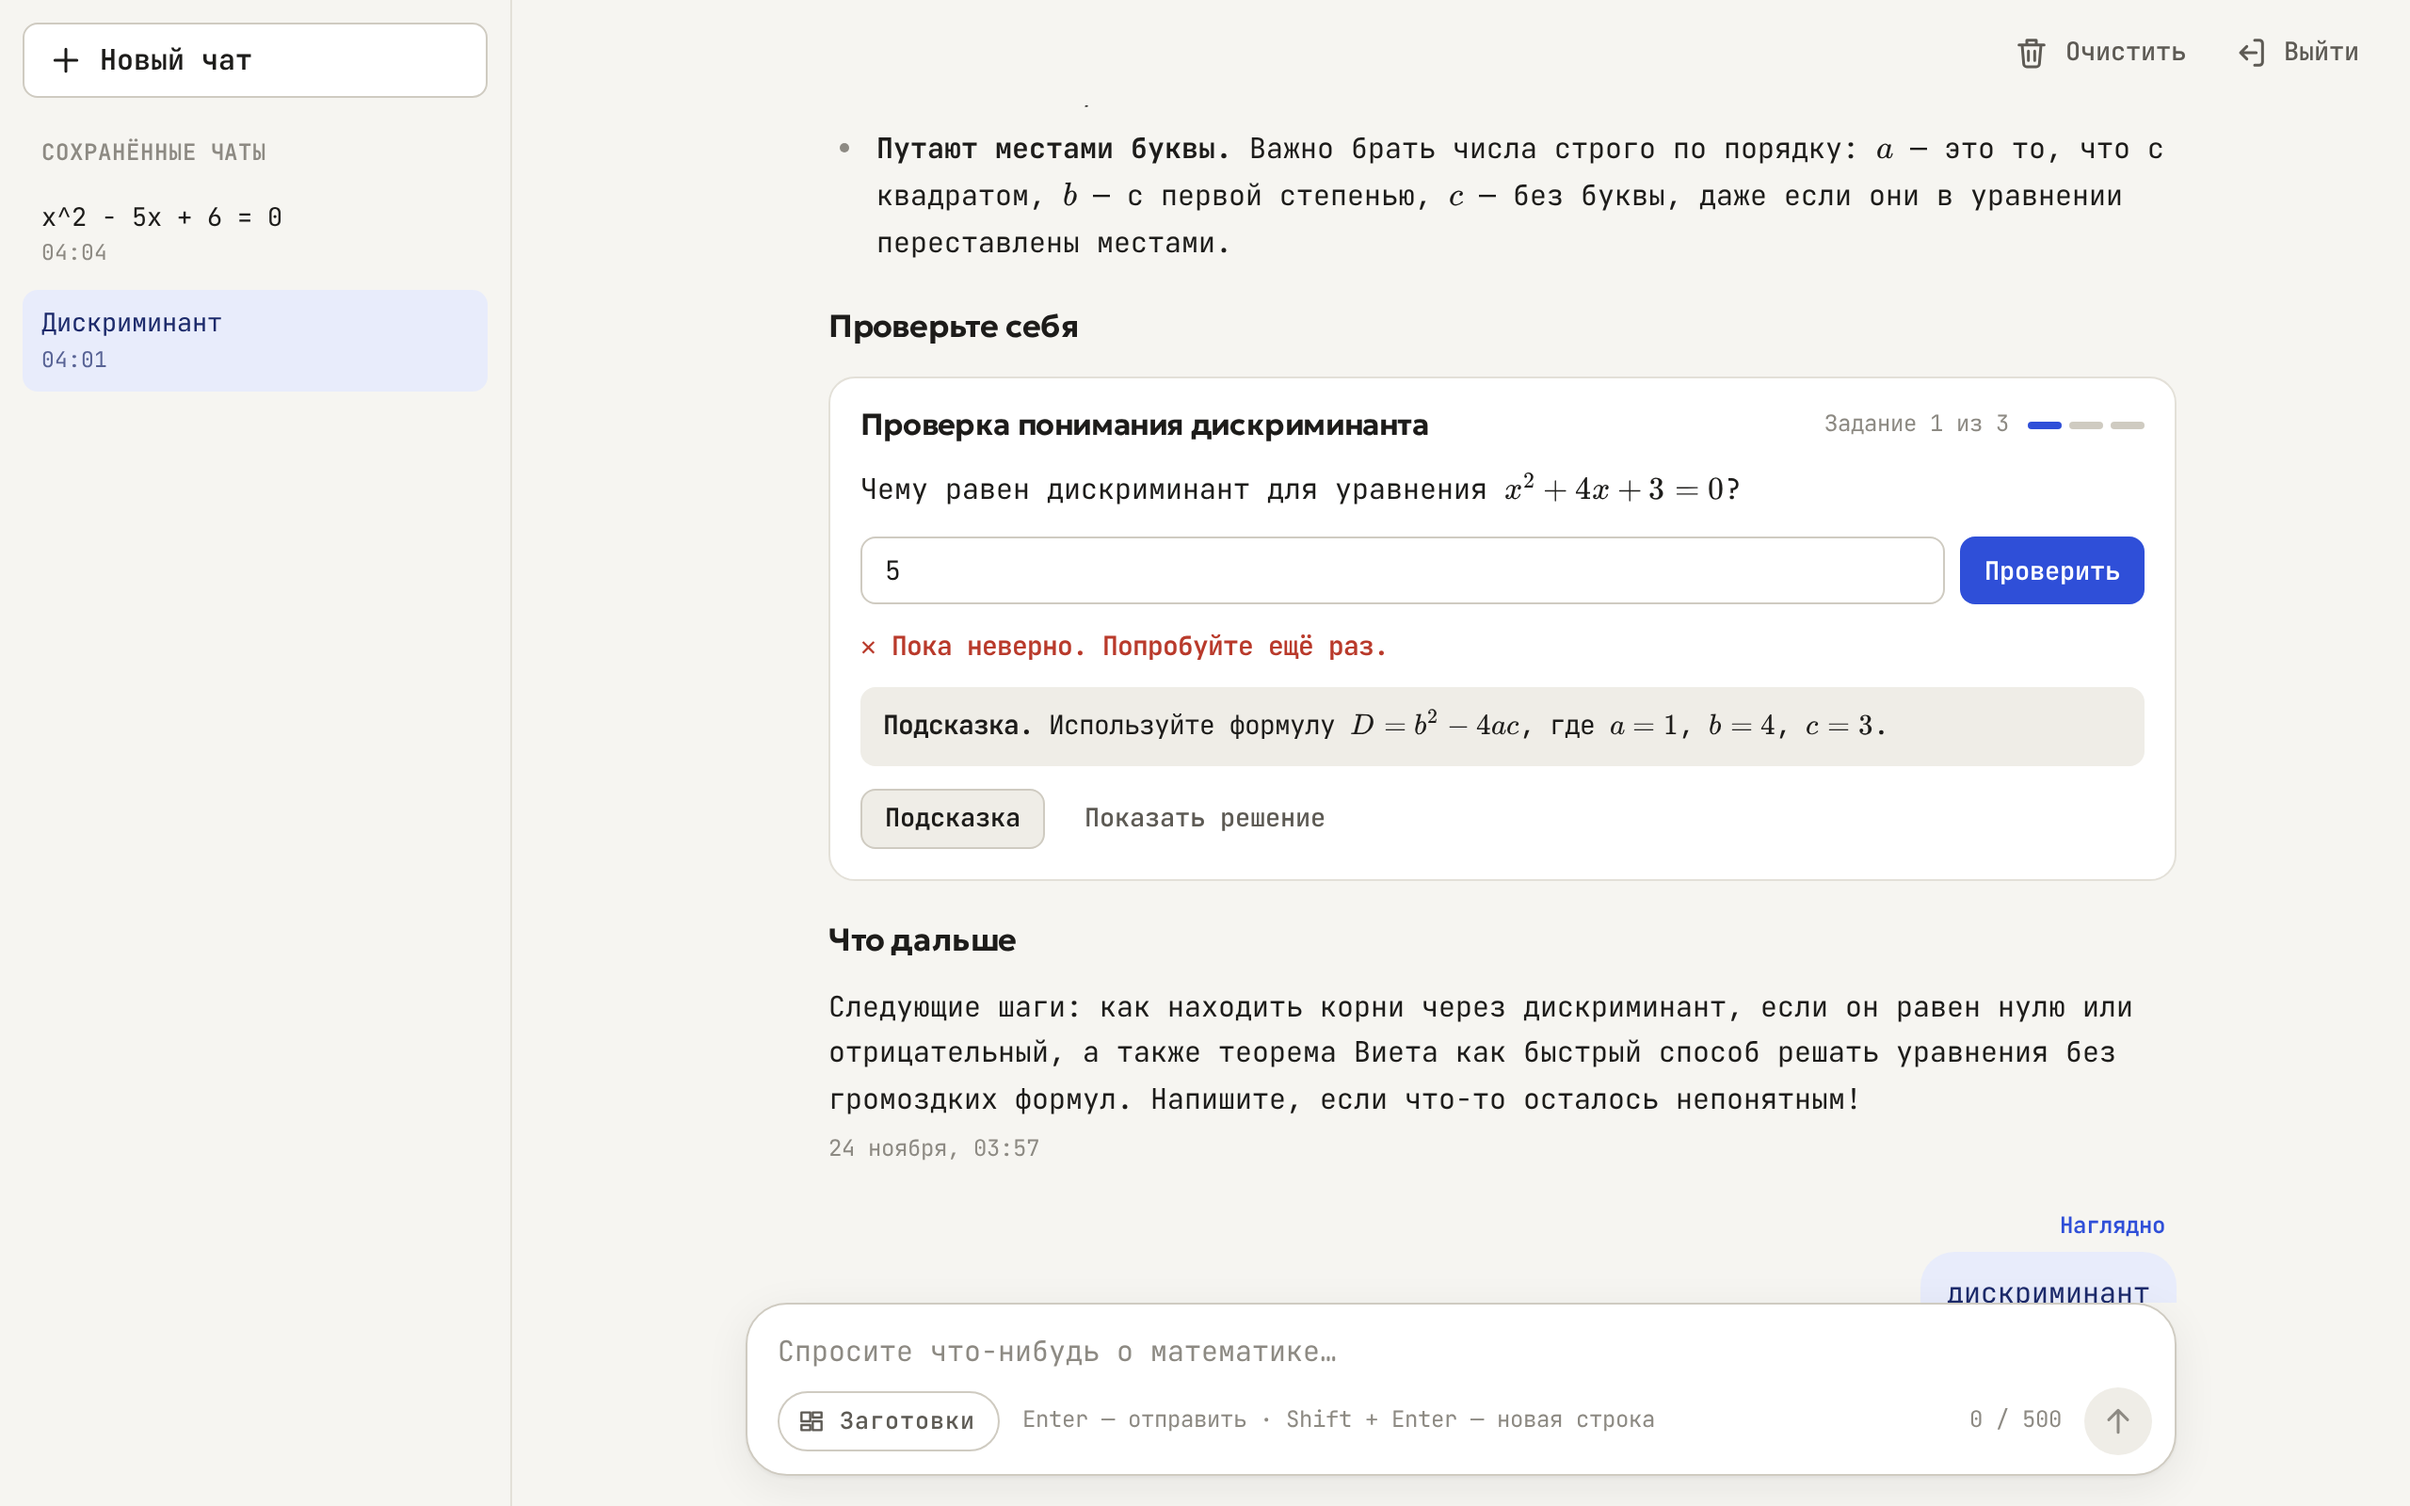
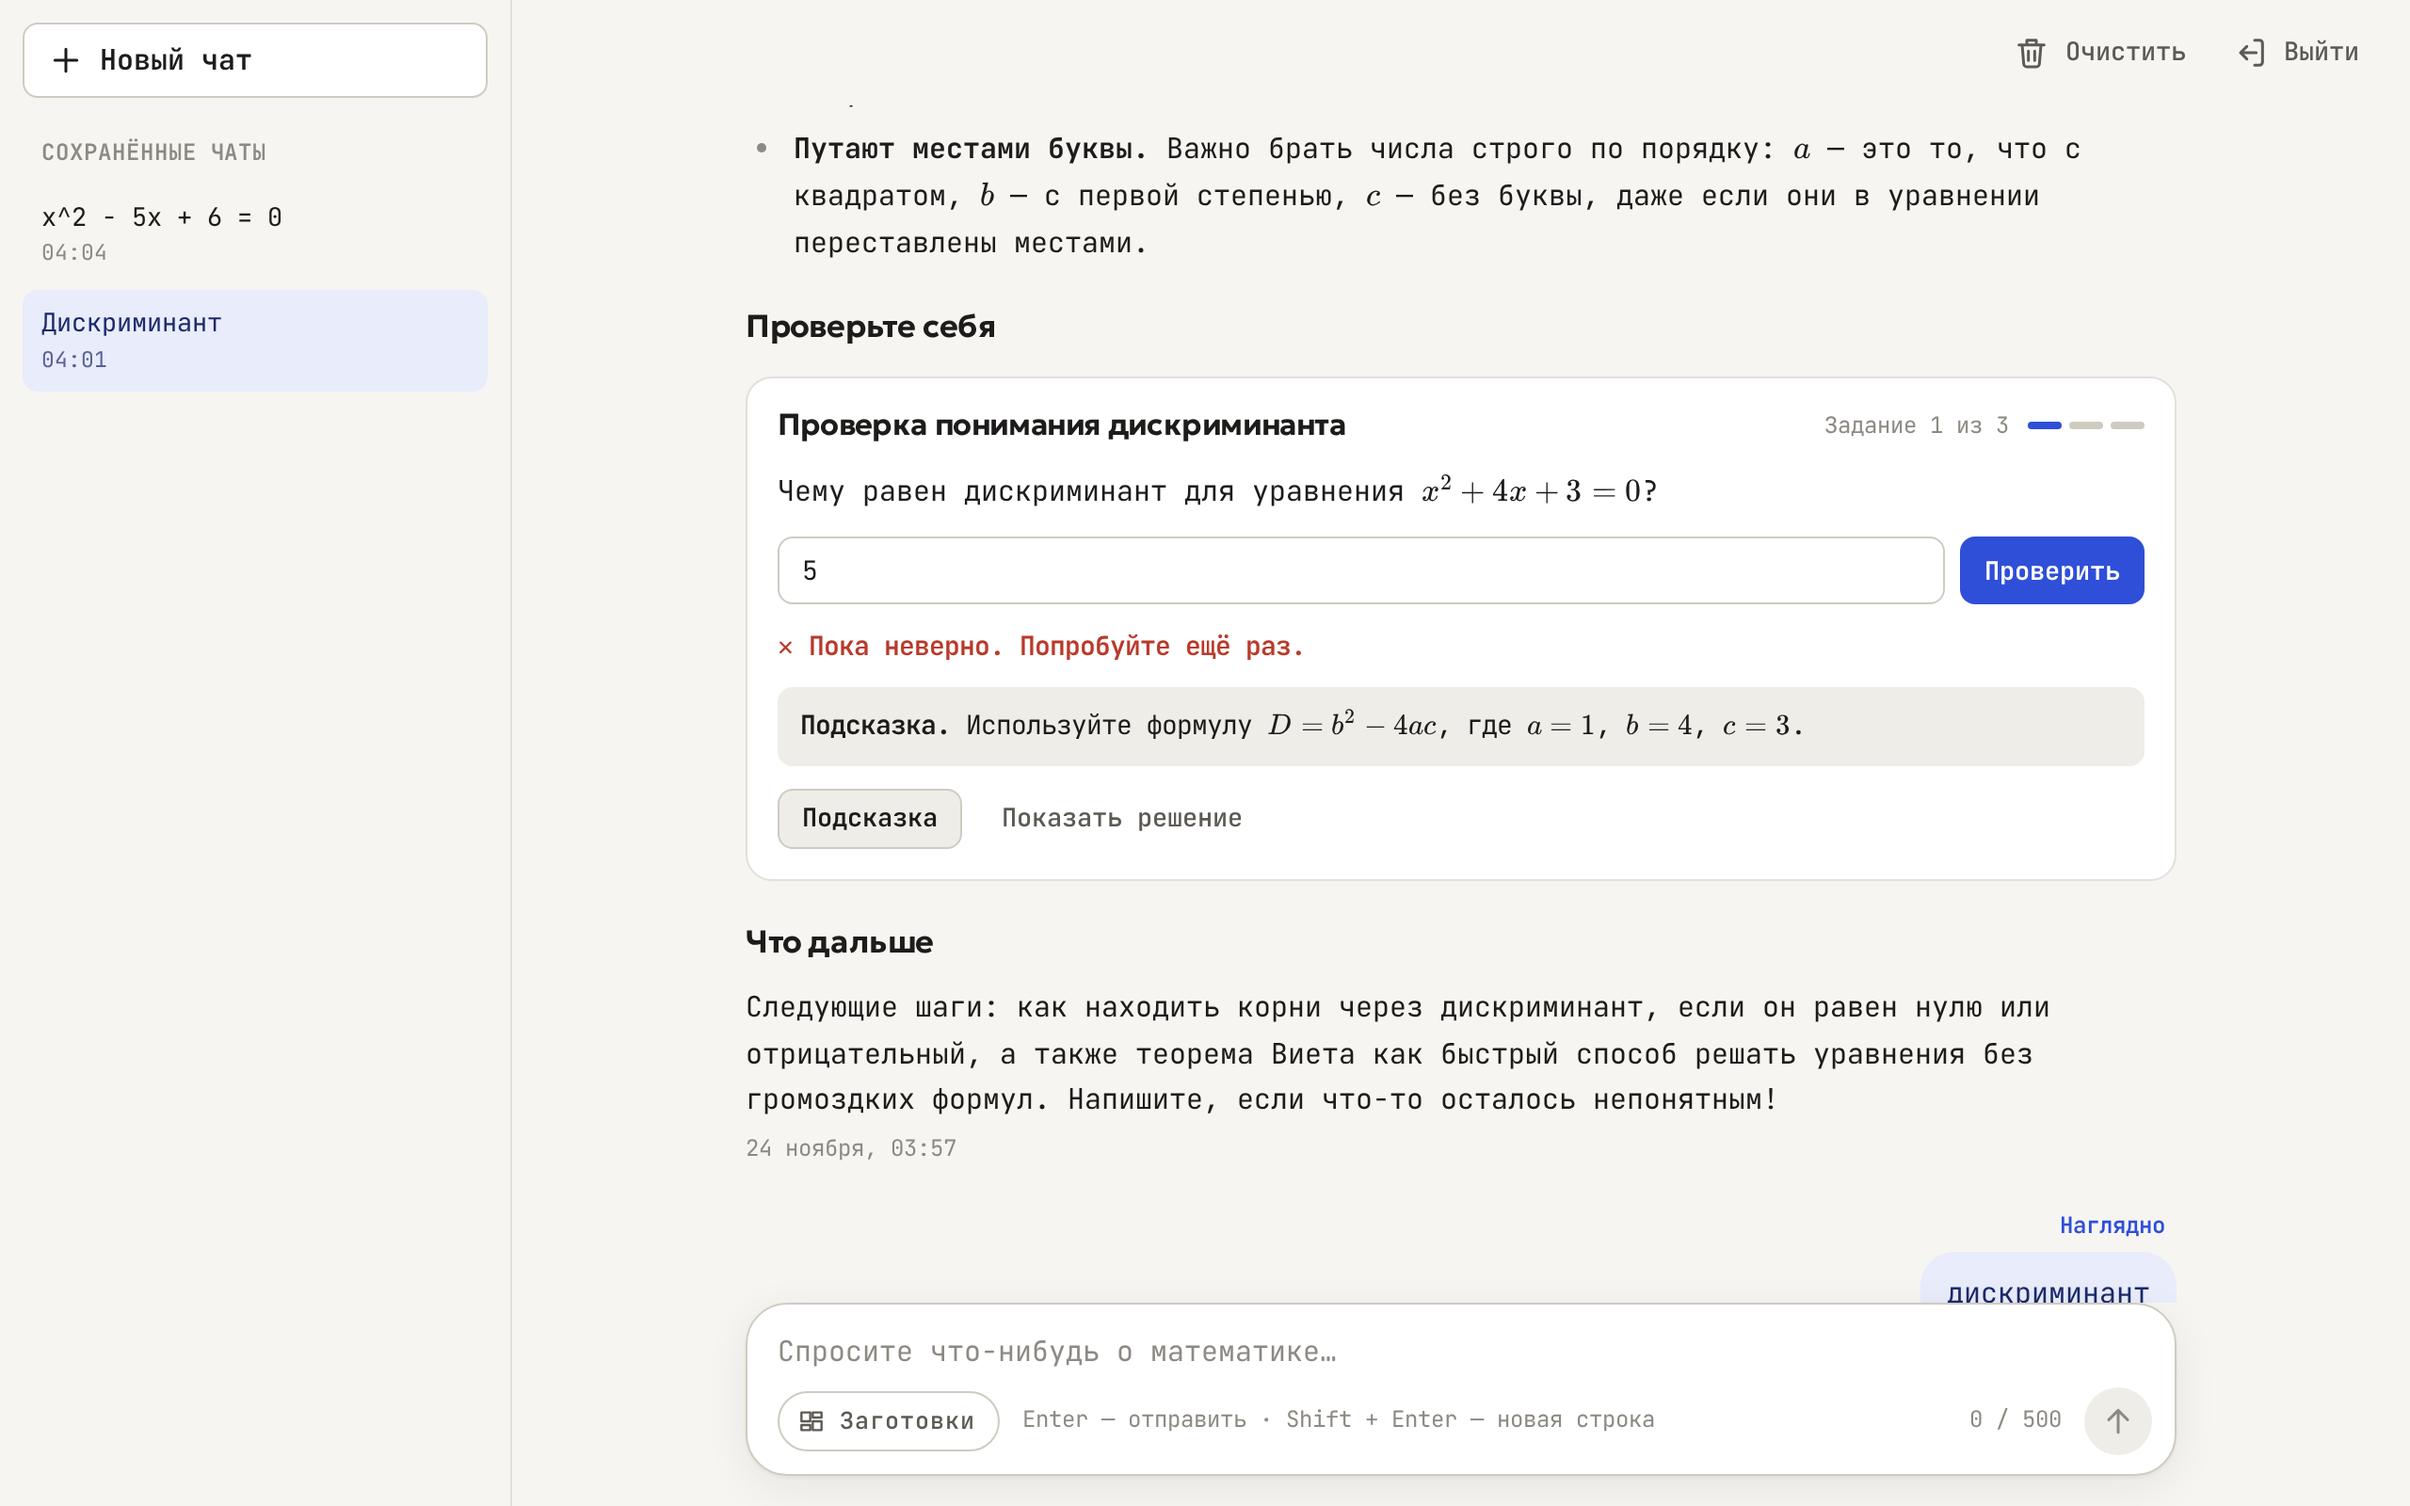
Убран значок с буквой ε: экран входа, новый чат, ответы, значок вкладки

diff --git a/static/css/chat.css b/static/css/chat.css
@@ -47,8 +47,7 @@
 
 /* --- Приветствие в пустом чате --- */
 .welcome { margin: auto 0; padding: 16px 0 32px; text-align: center; }
-.welcome .logo { margin: 0 auto; }
-.welcome__title { margin-top: 20px; font-size: 28px; font-weight: 700; line-height: 1.25; }
+.welcome__title { margin-top: 0; font-size: 28px; font-weight: 700; line-height: 1.25; }
 .welcome__lead { max-width: 560px; margin: 10px auto 0; color: var(--ink-soft); }
 /* Заготовки: карточки режимов на пустом экране */
 .presets {
@@ -109,8 +108,7 @@
   white-space: pre-wrap; overflow-wrap: anywhere;
 }
 
-.message--assistant .message__main { flex: 1; padding-top: 5px; }
-.message--assistant .logo { width: 32px; height: 32px; border-radius: 10px; font-size: 23px; }
+.message--assistant .message__main { flex: 1; }
 
 /* Отправляется / не отправилось */
 .message.is-sending .message__text { opacity: .65; }
@@ -227,10 +225,6 @@
   .welcome { padding-bottom: 16px; }
   .welcome__title { font-size: 22px; }
   .message--user .message__main { max-width: 88%; }
-  /* На узком экране значок уходит над ответом: формулам нужна вся ширина. */
-  .message--assistant { flex-direction: column; gap: 8px; }
-  .message--assistant .message__main { padding-top: 0; width: 100%; }
-  .message--assistant .logo { width: 28px; height: 28px; border-radius: 9px; font-size: 20px; }
   .chat__column { padding-top: 16px; }
 }
 @media (hover: none) {

diff --git a/static/index.html b/static/index.html
@@ -26,7 +26,6 @@
   <!-- Экран 1: вход по ключу доступа -->
   <main id="login-view" class="login" hidden>
     <form id="login-form" class="login__card" novalidate>
-      <div class="logo logo--large" aria-hidden="true">ε</div>
       <h1 class="login__title">Эпсилон</h1>
       <p class="login__lead">Помощник по математике: решает задачи по шагам и&nbsp;объясняет простым языком.</p>
 
@@ -89,7 +88,6 @@
         <p id="chat-status" class="chat__status" role="status" hidden></p>
 
         <section id="chat-empty" class="welcome" hidden>
-          <div class="logo logo--large" aria-hidden="true">ε</div>
           <h2 class="welcome__title">С чего начнём?</h2>
           <p class="welcome__lead">Выберите заготовку и напишите тему — или просто задайте любой вопрос по математике.</p>
 

diff --git a/static/css/tokens.css b/static/css/tokens.css
@@ -27,7 +27,6 @@
      и открытые формы, но пропорциональный и плотный, поэтому заголовок сразу отличим от текста. */
   --font-text: "JetBrains Mono", ui-monospace, "SF Mono", Menlo, Consolas, monospace;
   --font-heading: "Geologica", system-ui, -apple-system, "Segoe UI", sans-serif;
-  --font-math: KaTeX_Math, "Times New Roman", Georgia, serif;
 
   /* Палитра графиков: порядок фиксирован, соседние цвета различимы и при нарушениях
      цветового зрения (проверено валидатором для светлой и тёмной поверхности). */

diff --git a/static/css/base.css b/static/css/base.css
@@ -26,19 +26,6 @@ button, input, textarea { font: inherit; color: inherit; }
 
 .noscript { padding: 24px; text-align: center; }
 
-/* --- Логотип --- */
-.logo {
-  flex: none;
-  display: grid; place-items: center;
-  width: 36px; height: 36px;
-  border-radius: 11px;
-  background: var(--accent); color: var(--accent-ink);
-  font: italic 26px/1 var(--font-math);
-  padding-bottom: 3px;
-  user-select: none;
-}
-.logo--large { width: 60px; height: 60px; border-radius: 18px; font-size: 44px; padding-bottom: 5px; }
-
 /* --- Иконки --- */
 .icon {
   width: 20px; height: 20px; flex: none;

diff --git a/static/js/views/chat.js b/static/js/views/chat.js
@@ -112,7 +112,6 @@ export function createChatView({ onSessionLost, onLogout }) {
 
   function assistantMessage(content, meta) {
     return el('article', { class: 'message message--assistant' },
-      el('div', { class: 'logo', 'aria-hidden': 'true' }, 'ε'),
       el('div', { class: 'message__main' }, content, meta ? el('div', { class: 'message__meta' }, meta) : ''),
     );
   }

diff --git a/static/css/login.css b/static/css/login.css
@@ -19,7 +19,7 @@
   box-shadow: var(--shadow-card);
 }
 
-.login__title { margin-top: 20px; font-size: 30px; font-weight: 700; line-height: 1.2; }
+.login__title { margin-top: 0; font-size: 30px; font-weight: 700; line-height: 1.2; }
 .login__lead { margin-top: 8px; color: var(--ink-soft); }
 
 .login__notice {
